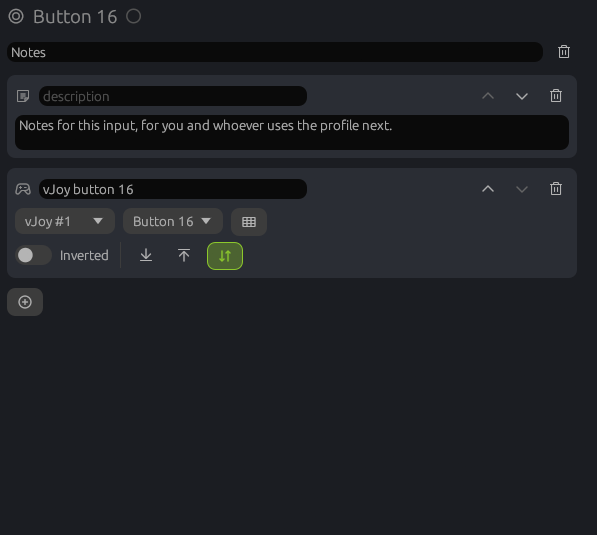
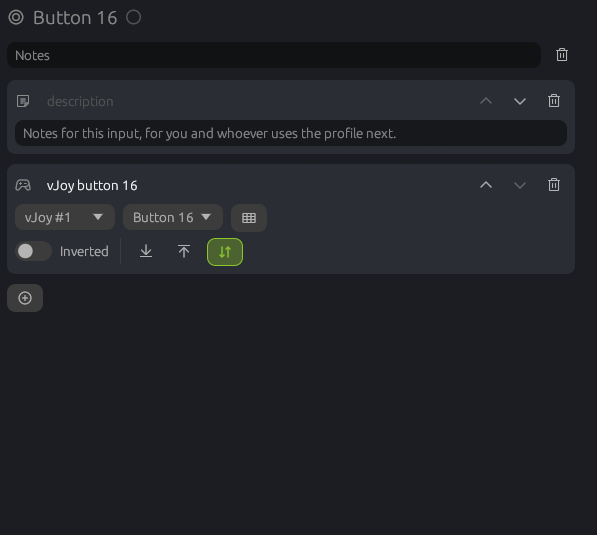
docs(site): new profile wizard, jitter filter and debounce, click-to-edit names

diff --git a/site/emulation.html b/site/emulation.html
@@ -321,7 +321,7 @@
             <ol class="numbered">
               <li><strong>Create two virtual joysticks</strong> on the Virtual joysticks page: vJoy #1 for the left stick and vJoy #2 for the right one, each with the axes and as many buttons as the stick has.</li>
               <li><strong>Build or import the profile.</strong> Import a Joystick Gremlin profile from the toolbar, or start a new one. If it was made on another PC, use <span class="term">Map controls</span> on the Devices page to match it to your sticks. A profile also remembers the virtual devices it uses: when one is missing here, a banner on the Devices page offers to set it up.</li>
-              <li><strong>Map every input.</strong> Select an input on the Devices page and add <a href="learn.html#map-to-vjoy">Map to vJoy</a>: left stick inputs to vJoy #1, right stick inputs to vJoy #2.</li>
+              <li><strong>Map every input.</strong> The quickest way is the wizard, the wand button at the start of the toolbar: name the profile and pick the virtual joystick each stick maps to, here the left stick to vJoy #1 and the right one to vJoy #2. It adds a <a href="learn.html#map-to-vjoy">Map to vJoy</a> for every axis, button and hat, axes on the same axis where the virtual joystick has it. It warns when a virtual joystick has fewer inputs than its stick; those inputs stay unmapped. Or map inputs one by one: select an input on the Devices page and add Map to vJoy.</li>
               <li><strong>Add the extras.</strong> A Tempo action on the mode button: a short press sends one vJoy button that the game uses to cycle modes, a long press sends another that jumps between Combat and Travel. Make a thumb button the M1 modifier and give the buttons you want doubled an M1 layer. Put a response curve before Map to vJoy on pitch and yaw.</li>
               <li><strong>Hide the real sticks</strong> in the Device hiding window and reconnect them.</li>
               <li><strong>Activate the profile</strong> with the play button. The virtual joysticks now follow your sticks.</li>
@@ -341,6 +341,8 @@
               <dd>Keep <span class="term">See hidden devices</span> on in Settings, so the app stays on the list of programs that see hidden devices.</dd>
               <dt>A changed vJoy device does not show up</dt>
               <dd>Stop the profile before changing devices. If the app asks for it, restart Windows.</dd>
+              <dt>An axis jitters, or a button fires twice</dt>
+              <dd>Worn hardware. On the Calibration page, switch on the <span class="term">Jitter filter</span> of that axis and save: changes smaller than the share of the travel you set are ignored, with no delay, and the axis still reaches its ends and its center. A line on the output bar shows what is sent. For buttons and hats that bounce, switch on <span class="term">Debounce</span> for the device: after a press or release, further changes within that time are ignored, and the first one still passes at once.</dd>
               <dt>The game bound the wrong device</dt>
               <dd>Games remember devices by order or by name. Clear its bindings, keep the real sticks hidden, and bind again by moving the sticks while the profile runs.</dd>
             </dl>

diff --git a/site/learn.html b/site/learn.html
@@ -177,7 +177,7 @@
             <ul class="ticks">
               <li><i class="ph-bold ph-check" aria-hidden="true"></i><span><strong>When it runs.</strong> Button actions have three switches: on press, on release, or both. Both follows the button, so a vJoy button is held exactly as long as yours.</span></li>
               <li><i class="ph-bold ph-check" aria-hidden="true"></i><span><strong>Containers.</strong> Some actions hold other actions: tempo, double tap, condition, split axis and others. Their children are edited inside them.</span></li>
-              <li><i class="ph-bold ph-check" aria-hidden="true"></i><span><strong>Description.</strong> The field above the list names the input; the name also shows on the input's card.</span></li>
+              <li><i class="ph-bold ph-check" aria-hidden="true"></i><span><strong>Names.</strong> The name above the list names the input; it also shows on the input's card. It, the title of every action and description notes read as text: click one to edit it, then press Enter or click elsewhere.</span></li>
             </ul>
             <figure class="shot"><img src="img/devices.png" loading="lazy" width="1102" height="732" alt="Devices page: the inputs of a stick on the left, the actions of the selected button on the right"></figure>
           </article>
@@ -332,7 +332,7 @@
           </article>
           <article class="learn-action" id="description">
             <h3><i class="ph ph-note-pencil" aria-hidden="true"></i>Description</h3>
-            <p>A note that does nothing when the input is used: what this input is for, for you and whoever uses the profile next.</p>
+            <p>A note that does nothing when the input is used: what this input is for, for you and whoever uses the profile next. It reads as text; click it to edit it.</p>
             <figure class="shot"><img src="img/actions/description.png" loading="lazy" alt="A description note above a Map to vJoy action"></figure>
           </article>
         </section>

diff --git a/site/index.html b/site/index.html
@@ -372,7 +372,7 @@
           <div>
             <div class="benefit-icon" data-k="pop"><i class="ph ph-chart-line" aria-hidden="true"></i></div>
             <h3 data-k="up">See every input move live</h3>
-            <p data-k="up">Graphs of every axis, button and hat for physical sticks and vJoy devices alike, in the main window or a window of its own. Calibrate center and end points on the spot.</p>
+            <p data-k="up">Graphs of every axis, button and hat for physical sticks and vJoy devices alike, in the main window or a window of its own. Calibrate center and end points on the spot, and filter axes that jitter and buttons that bounce.</p>
           </div>
           <figure class="shot" data-k="card"><div class="stage" data-story="viewer"><img src="img/viewer.png" loading="lazy" width="1102" height="732" alt="Input viewer: axes over time, current axis values, buttons and hats of a vJoy device"></div></figure>
         </article>
